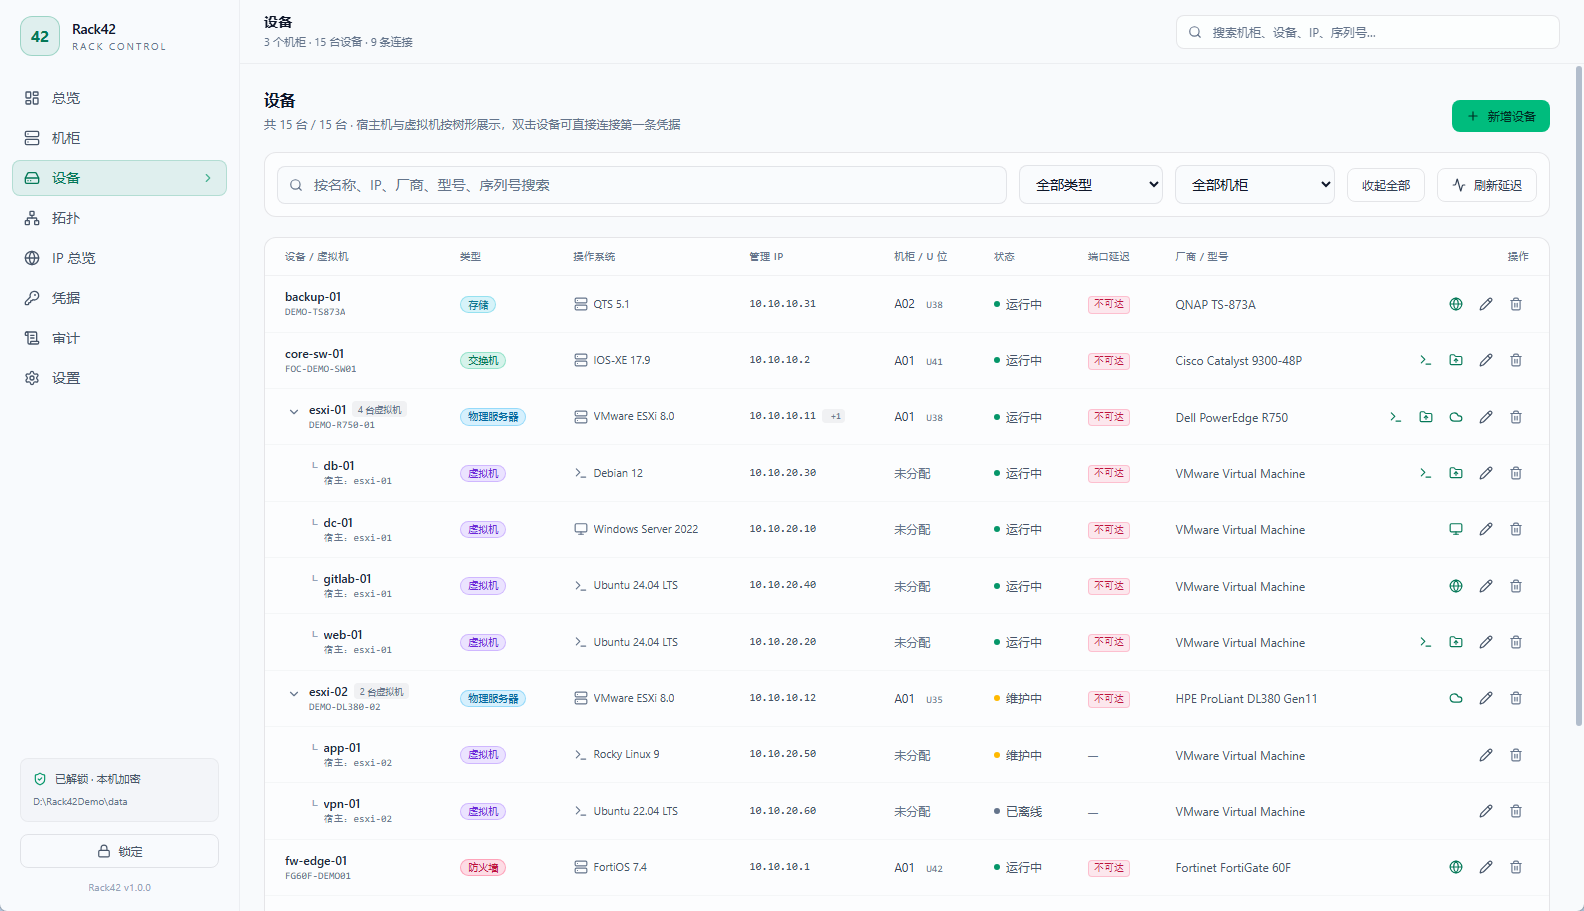
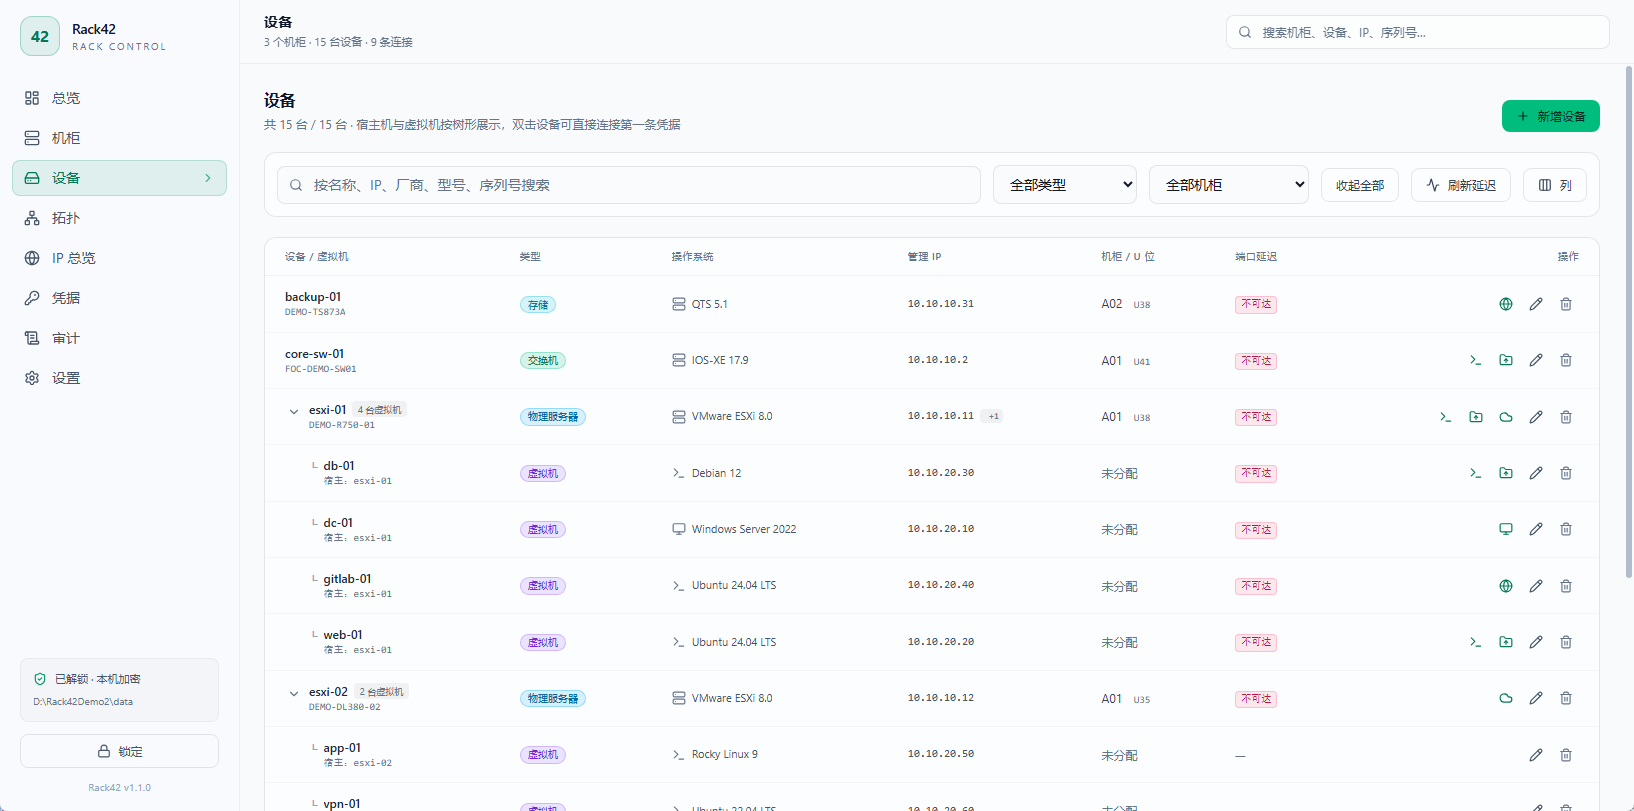
feat: 设备列表默认隐藏状态与厂商列，可通过「列」切换
- 设备列表的「状态」「厂商 / 型号」列默认隐藏
- 工具栏新增「列」下拉，可勾选显示/隐藏，选择保存在 localStorage
- 更新设备列表截图与手动测试矩阵

diff --git a/src/pages/DevicesView.vue b/src/pages/DevicesView.vue
@@ -3,6 +3,7 @@ import {
   Activity,
   ChevronDown,
   ChevronRight,
+  Columns3,
   Loader2,
   Pencil,
   Plus,
@@ -56,6 +57,31 @@ const editing = ref<Device | null>(null)
 const formTab = ref<'basic' | 'credentials'>('basic')
 const formKind = ref<DeviceKind | undefined>(undefined)
 const formHostId = ref<number | null>(null)
+
+const COLUMNS_STORAGE_KEY = 'rack42.device-columns'
+const columns = reactive({ status: false, vendor: false })
+
+try {
+  const saved = localStorage.getItem(COLUMNS_STORAGE_KEY)
+  if (saved) {
+    const parsed = JSON.parse(saved) as { status?: boolean; vendor?: boolean }
+    columns.status = parsed.status === true
+    columns.vendor = parsed.vendor === true
+  }
+} catch {
+  // Ignore invalid local preferences and keep the defaults.
+}
+
+watch(
+  columns,
+  () => {
+    localStorage.setItem(
+      COLUMNS_STORAGE_KEY,
+      JSON.stringify({ status: columns.status, vendor: columns.vendor }),
+    )
+  },
+  { deep: true },
+)
 
 const menuOpen = ref(false)
 const menuPosition = reactive({ x: 0, y: 0 })
@@ -488,6 +514,42 @@ async function removeDevice(device: Device): Promise<void> {
         <Activity class="h-3.5 w-3.5" />
         刷新延迟
       </button>
+
+      <details class="relative">
+        <summary
+          class="btn btn-ghost cursor-pointer list-none select-none [&::-webkit-details-marker]:hidden"
+        >
+          <Columns3 class="h-3.5 w-3.5" />
+          列
+        </summary>
+        <div
+          class="absolute right-0 z-30 mt-1 w-48 rounded-lg border border-white/10 bg-slate-900 p-2 shadow-xl"
+        >
+          <p class="px-2 pb-1 text-[10px] uppercase tracking-wide text-slate-500">
+            显示列
+          </p>
+          <label
+            class="flex cursor-pointer items-center gap-2 rounded px-2 py-1.5 text-xs text-slate-300 hover:bg-white/5"
+          >
+            <input
+              v-model="columns.status"
+              type="checkbox"
+              class="h-3.5 w-3.5 accent-emerald-500"
+            />
+            状态
+          </label>
+          <label
+            class="flex cursor-pointer items-center gap-2 rounded px-2 py-1.5 text-xs text-slate-300 hover:bg-white/5"
+          >
+            <input
+              v-model="columns.vendor"
+              type="checkbox"
+              class="h-3.5 w-3.5 accent-emerald-500"
+            />
+            厂商 / 型号
+          </label>
+        </div>
+      </details>
     </div>
 
     <div class="card overflow-x-auto">
@@ -499,9 +561,9 @@ async function removeDevice(device: Device): Promise<void> {
             <th class="px-5 py-3 font-medium">操作系统</th>
             <th class="px-5 py-3 font-medium">管理 IP</th>
             <th class="px-5 py-3 font-medium">机柜 / U 位</th>
-            <th class="px-5 py-3 font-medium">状态</th>
+            <th v-if="columns.status" class="px-5 py-3 font-medium">状态</th>
             <th class="px-5 py-3 font-medium">端口延迟</th>
-            <th class="px-5 py-3 font-medium">厂商 / 型号</th>
+            <th v-if="columns.vendor" class="px-5 py-3 font-medium">厂商 / 型号</th>
             <th class="px-5 py-3 text-right font-medium">操作</th>
           </tr>
         </thead>
@@ -604,7 +666,7 @@ async function removeDevice(device: Device): Promise<void> {
               </template>
               <span v-else class="text-slate-600">未分配</span>
             </td>
-            <td class="px-5 py-3">
+            <td v-if="columns.status" class="px-5 py-3">
               <span class="flex items-center gap-1.5 text-slate-400">
                 <span
                   class="h-1.5 w-1.5 rounded-full"
@@ -644,7 +706,7 @@ async function removeDevice(device: Device): Promise<void> {
               </template>
               <span v-else class="text-[10px] text-slate-600">—</span>
             </td>
-            <td class="px-5 py-3 text-slate-400">
+            <td v-if="columns.vendor" class="px-5 py-3 text-slate-400">
               {{ [row.device.vendor, row.device.model].filter(Boolean).join(' ') || '—' }}
             </td>
             <td class="px-5 py-3" @dblclick.stop>

diff --git a/docs/manual-test-matrix.md b/docs/manual-test-matrix.md
@@ -140,6 +140,7 @@
 | D4 | 双击操作列 | 双击编辑/删除按钮 | 不触发连接 |
 | D5 | 类型图标 | 观察设备列表连接按钮 | 单动作类型使用凭据类型图标（含自定义图片图标） |
 | D6 | SSH/SFTP 区分 | 同一 SSH 类型的 SSH、SFTP 两个按钮 | 分别显示终端图标与文件传输图标，可直观区分 |
+| D7 | 默认隐藏列 | 打开设备列表 | 「状态」「厂商 / 型号」列默认不显示；点击「列」可勾选显示，刷新后保持 |
 
 ## 11. 设备表单
 
